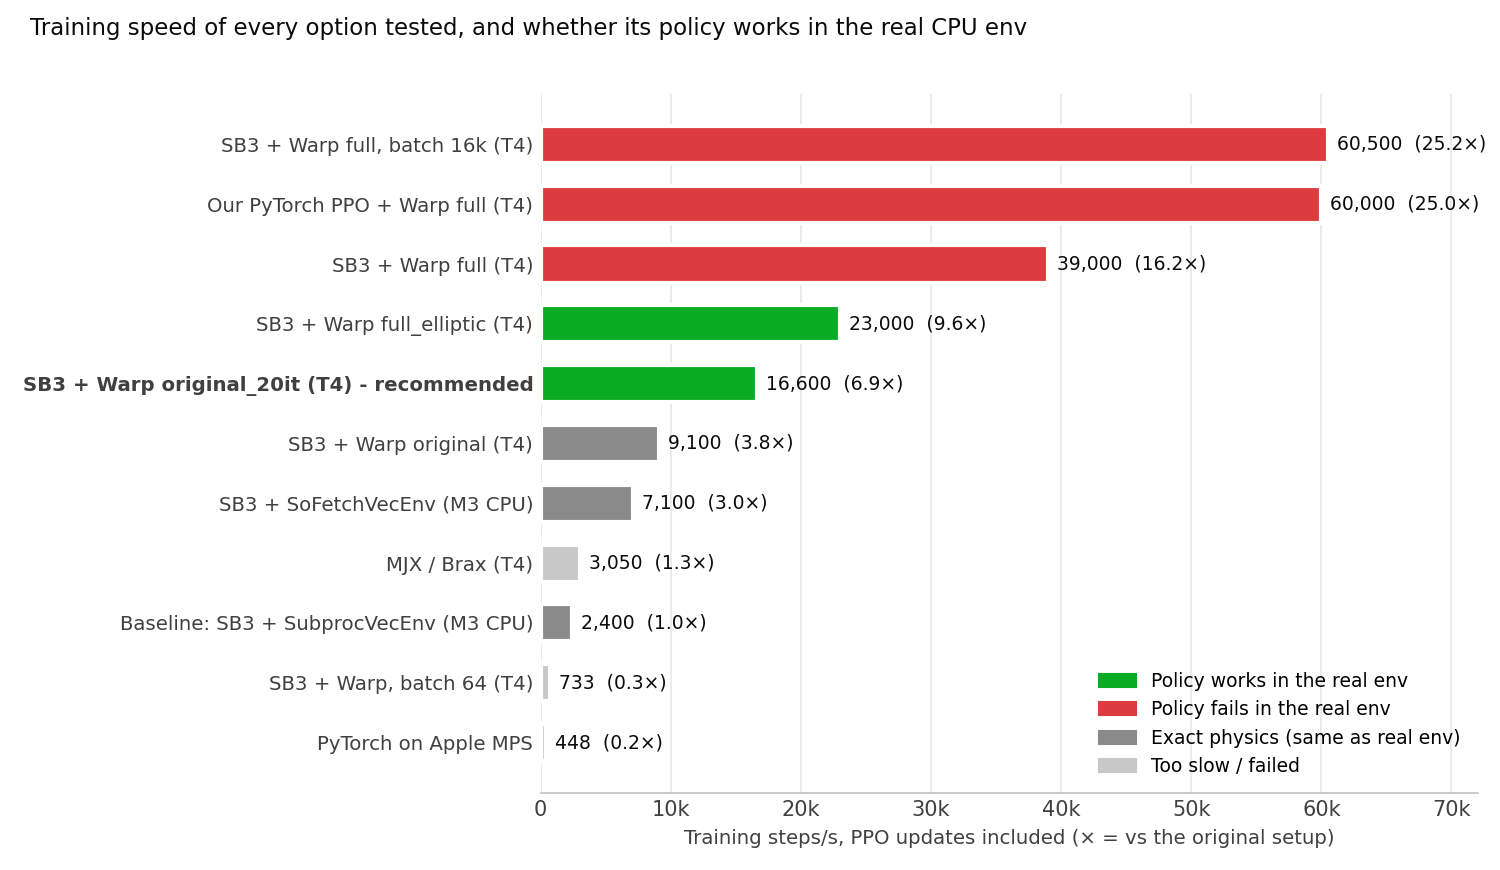
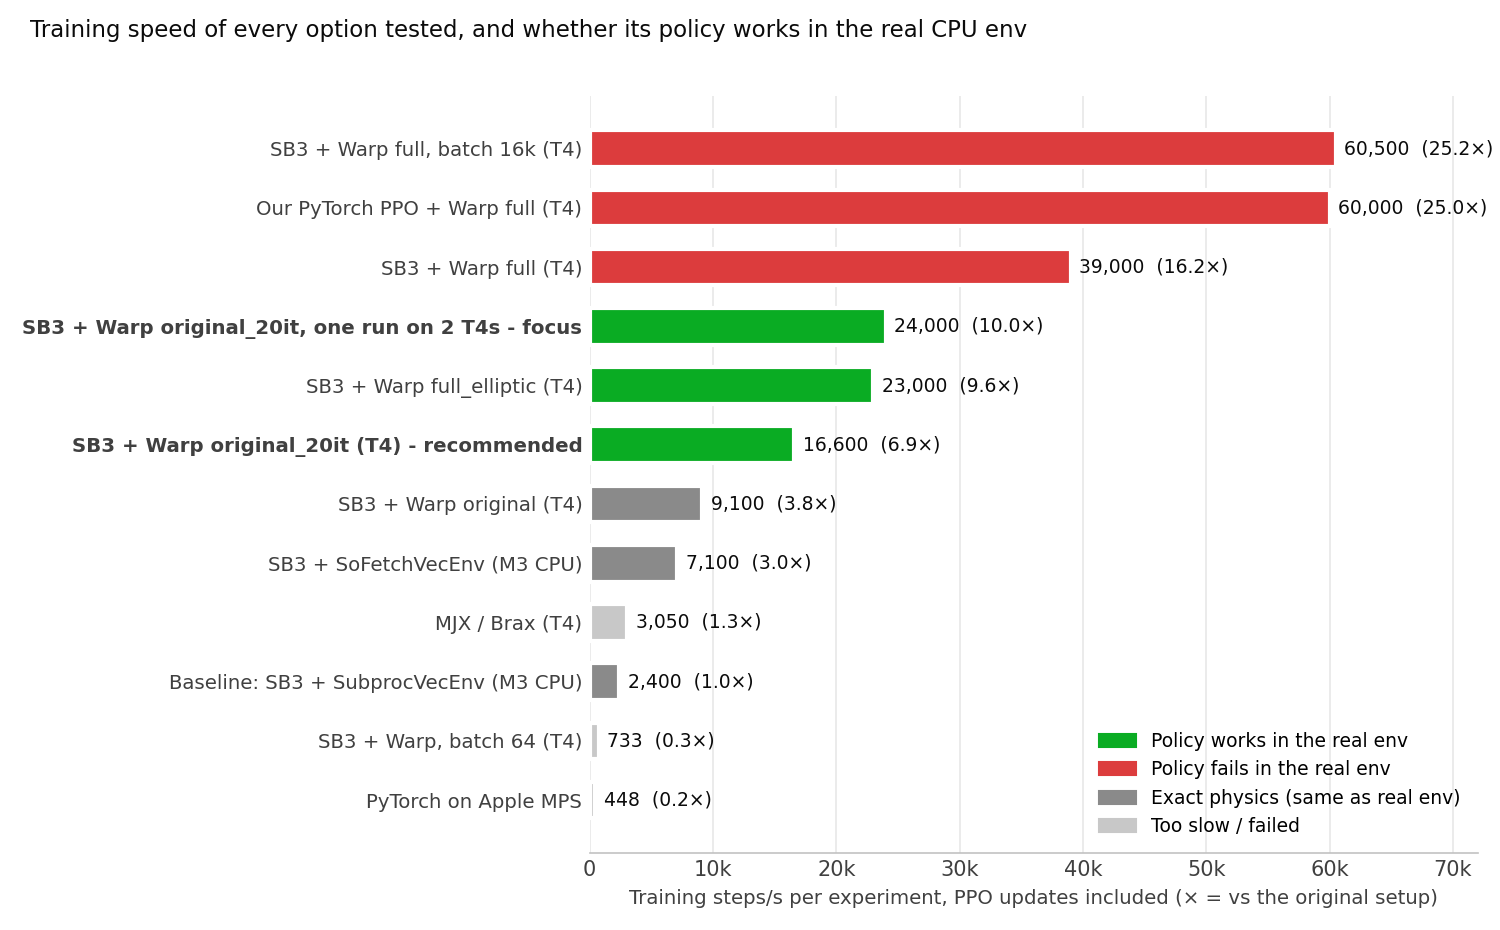
Variety or focus: notebook MODE, kaggle_job --focus, measured results in the docs
Focus splits one experiment over both T4s: 24k vs 16.6k steps/s with the same PPO settings, a 90% grasp rate in
17.1 vs 21.9 min. Split test compares env 0's info dict with a tolerance (GPU float maths isn't bit-repeatable).

diff --git a/tools/kaggle_job.py b/tools/kaggle_job.py
@@ -7,9 +7,10 @@ Wraps the official Kaggle CLI (`pip install kaggle`). See docs/KAGGLE.md for set
     python tools/kaggle_job.py logs so100-carl-rewards            # streams the live log (Ctrl-C to stop)
     python tools/kaggle_job.py download so100-carl-rewards        # -> kaggle_results/so100-carl-rewards/
     python tools/kaggle_job.py submit --name so100-carl-rewards --resume-from so100-carl-rewards ...   # continue training
+    python tools/kaggle_job.py submit --name so100-carl-focus --focus --exp carl-best:default    # one run on both T4s
 
 Each job is a private Kaggle notebook running kaggle_train_warp.ipynb (SB3 PPO on MuJoCo Warp) on GPU T4 x2: up to
-two experiments, one per GPU. The code is cloned from --branch on GitHub, so push your branch (e.g. with a new reward) first.
+two experiments, one per GPU ("variety"), or with --focus one experiment split across both GPUs (~1.45x faster). The code is cloned from --branch on GitHub, so push your branch (e.g. with a new reward) first.
 
 Credentials: ~/.kaggle/kaggle.json, or KAGGLE_USERNAME + KAGGLE_API_TOKEN (or KAGGLE_KEY) in the environment,
 or --env-file path/to/.env containing them. Keys are never printed.
@@ -65,12 +66,14 @@ def current_branch():
         return ""
 
 
-def config_cell(branch, hours, num_envs, experiments, resume):
+def config_cell(branch, hours, num_envs, experiments, resume, mode="variety"):
     exps = ",\n".join(f'    dict(run_name="{r}", reward="{w}", case="{c}")' for r, w, c in experiments)
     res = ", ".join(f'"{k}": "{v}"' for k, v in resume.items())
-    return (f'BRANCH = "{branch}"\nHOURS = {hours}                      # stop each run after this long (Kaggle ends sessions at 12 h)\n'
-            f'NUM_ENVS = {num_envs}                   # parallel envs per GPU\n'
-            f'EXPERIMENTS = [                   # one per GPU\n{exps},\n]\n'
+    return (f'BRANCH = "{branch}"\n'
+            f'MODE = "{mode}"                  # "variety": one experiment per T4 | "focus": one experiment on both T4s\n'
+            f'HOURS = {hours}                      # stop each run after this long (Kaggle ends sessions at 12 h)\n'
+            f'NUM_ENVS = {num_envs}                   # parallel envs per experiment\n'
+            f'EXPERIMENTS = [\n{exps},\n]\n'
             f'RESUME = {{{res}}}                      # run_name -> checkpoint (used if the file exists)')
 
 
@@ -85,8 +88,11 @@ def submit(a):
         if len(parts) not in (2, 3):
             sys.exit(f"--exp {e!r}: use RUN_NAME:REWARD or RUN_NAME:REWARD:CASE")
         experiments.append((parts[0], parts[1], parts[2] if len(parts) == 3 else a.case))
+    if a.focus and len(experiments) != 1:
+        sys.exit("--focus trains one experiment on both T4s: give exactly one --exp")
     if not 1 <= len(experiments) <= 2:
         sys.exit("give one or two --exp (one per T4)")
+    mode = "focus" if a.focus else "variety"
     resume, sources = {}, []
     if a.resume_from:
         src = a.resume_from if "/" in a.resume_from else f"{user}/{a.resume_from}"
@@ -96,7 +102,7 @@ def submit(a):
 
     nb = json.load(open(NOTEBOOK))
     idx = next(i for i, c in enumerate(nb["cells"]) if "EXPERIMENTS = [" in "".join(c["source"]))
-    nb["cells"][idx]["source"] = config_cell(a.branch, a.hours, a.num_envs, experiments, resume)
+    nb["cells"][idx]["source"] = config_cell(a.branch, a.hours, a.num_envs, experiments, resume, mode)
     out = a.dir or tempfile.mkdtemp(prefix="kaggle_job_")
     os.makedirs(out, exist_ok=True)
     json.dump(nb, open(os.path.join(out, f"{slug}.ipynb"), "w"), indent=1)
@@ -104,7 +110,8 @@ def submit(a):
             "kernel_type": "notebook", "is_private": True, "enable_gpu": True, "enable_internet": True,
             "dataset_sources": [], "competition_sources": [], "kernel_sources": sources, "model_sources": []}
     json.dump(meta, open(os.path.join(out, "kernel-metadata.json"), "w"), indent=2)
-    print(f"Job '{user}/{slug}': branch {a.branch}, {a.hours} h, {a.num_envs} envs/GPU")
+    print(f"Job '{user}/{slug}': branch {a.branch}, {a.hours} h, {a.num_envs} envs per experiment, "
+          + ("focus (one experiment on both T4s)" if a.focus else "variety (one experiment per T4)"))
     for r, w, c in experiments:
         print(f"  {r}: reward={w} case={c}" + (f" (resume from {resume[r]})" if r in resume else ""))
     if a.dry_run:
@@ -149,6 +156,7 @@ def main():
     s.add_argument("--branch", default=current_branch() or "main", help="GitHub branch to clone")
     s.add_argument("--hours", type=float, default=11.0)
     s.add_argument("--num-envs", type=int, default=8192)
+    s.add_argument("--focus", action="store_true", help="train one --exp on both T4s (~1.45x faster) instead of one per T4")
     s.add_argument("--resume-from", default=None, help="earlier job name whose results/models/<run>/final.zip to continue")
     s.add_argument("--accelerator", default="NvidiaTeslaT4")
     s.add_argument("--dir", default=None, help="where to write the job folder (default: a temp dir)")

diff --git a/make_kaggle_warp_notebook.py b/make_kaggle_warp_notebook.py
@@ -29,8 +29,12 @@ cells = [
 
 Physics runs in MuJoCo Warp on the GPU (8,192 envs at once) behind a normal SB3 VecEnv (`so_arm_warp/sb3_vec_env.py`),
 with the same PPO setup as `train_parallel.py` (VecMonitor + VecNormalize, MlpPolicy). A Kaggle GPU session has
-**two T4s** and each run uses one, so this notebook trains up to **two experiments side by side** (e.g. two reward
-functions). Code is cloned from the `{a.branch}` branch.
+**two T4s**, used one of two ways (`MODE` below):
+- **`"variety"`** (default): **two experiments side by side**, one per T4 (e.g. two reward functions), ~16.6k steps/s each.
+- **`"focus"`**: **one experiment on both T4s** (the first in `EXPERIMENTS`), ~24k steps/s, ~1.45× faster. Same PPO
+  settings, so results are comparable. Use it once something looks promising and you want that one run sooner.
+
+Code is cloned from the `{a.branch}` branch.
 
 **Kaggle settings:** Accelerator **GPU T4 x2**, Internet **On**, then **Save Version → Save & Run All** (12 h limit).
 Download `results.zip` from the version's Output tab.
@@ -48,9 +52,10 @@ the CPU env). Don't use `full`: it's faster but its policies fail in the CPU env
 """),
     code(f"""
 BRANCH = "{a.branch}"
+MODE = "variety"                  # "variety": one experiment per T4 | "focus": the first experiment, split over both T4s
 HOURS = 11.0                      # stop each run after this long (Kaggle ends sessions at 12 h)
-NUM_ENVS = 8192                   # parallel envs per GPU
-EXPERIMENTS = [                   # one per GPU; remove one to train a single run
+NUM_ENVS = 8192                   # parallel envs per experiment (in "focus" they're split across the T4s)
+EXPERIMENTS = [                   # "variety": one per GPU; "focus": only the first one is trained
     dict(run_name="carl-default-1", reward="default", case="original_20it"),
     dict(run_name="carl-fast-1", reward="default", case="full_elliptic"),
 ]
@@ -70,24 +75,27 @@ print("GPUs:", [torch.cuda.get_device_name(i) for i in range(n_gpu)])
 assert n_gpu >= 1, "No GPU: set the accelerator to GPU T4 x2"
 os.makedirs(OUT, exist_ok=True)
 """),
-    md("## Train (one process per GPU)"),
+    md("## Train (variety: one process per GPU; focus: one process on all GPUs)"),
     code("""
+assert MODE in ("variety", "focus"), MODE
+focus = MODE == "focus" and n_gpu > 1
+runs = EXPERIMENTS[:1] if MODE == "focus" else EXPERIMENTS[:n_gpu]
 procs = []
-for i, ex in enumerate(EXPERIMENTS[:n_gpu]):
+for i, ex in enumerate(runs):
     cmd = [sys.executable, "-m", "so_arm_warp.train_sb3", "--run-name", ex["run_name"], "--reward", ex["reward"],
            "--physics", ex.get("case", "original_20it"), "--num-envs", str(NUM_ENVS), "--hours", str(HOURS),
-           "--out-dir", OUT]
+           "--out-dir", OUT] + (["--gpus", str(n_gpu)] if focus else [])
     ck = RESUME.get(ex["run_name"])
     if ck and os.path.exists(ck):
         cmd += ["--resume", ck]
     elif ck:
         print("no checkpoint at", ck, "- starting", ex["run_name"], "from scratch")
     log = open(os.path.join(OUT, f"{ex['run_name']}.stdout"), "w")
-    env = {**os.environ, "CUDA_VISIBLE_DEVICES": str(i)}
+    env = dict(os.environ) if focus else {**os.environ, "CUDA_VISIBLE_DEVICES": str(i)}
     procs.append((ex["run_name"], subprocess.Popen(cmd, cwd=SRC, stdout=log, stderr=subprocess.STDOUT, env=env), log))
-    print("started", ex["run_name"], "on GPU", i)
-if len(EXPERIMENTS) > n_gpu:
-    print("Only", n_gpu, "GPU(s): skipped", [e["run_name"] for e in EXPERIMENTS[n_gpu:]])
+    print("started", ex["run_name"], f"on all {n_gpu} GPUs (focus)" if focus else f"on GPU {i}")
+if len(EXPERIMENTS) > len(runs):
+    print(f"{MODE}: not training", [e["run_name"] for e in EXPERIMENTS[len(runs):]])
 
 def last_line(name):
     try:

diff --git a/tests/test_warp_sb3.py b/tests/test_warp_sb3.py
@@ -95,7 +95,8 @@ def test_split_across_devices_matches_halves(steps=110):
             if "terminal_observation" in x:
                 ended += 1
                 np.testing.assert_allclose(x["terminal_observation"], y["terminal_observation"], atol=1e-6)
-        assert two.get_attr("info")[0] == halves[0].get_attr("info")[0]
+        # float reward terms: GPU float maths isn't bit-for-bit repeatable between runs, so compare with a tolerance
+        assert two.get_attr("info")[0] == pytest.approx(halves[0].get_attr("info")[0], abs=1e-5)
     assert ended == N    # every env finished one episode, in both halves
 
 

diff --git a/docs/TRAINING_OPTIONS.md b/docs/TRAINING_OPTIONS.md
@@ -26,6 +26,7 @@ with the jaws at least 4 cm open.
 | 1 | SB3 + Warp `full`, batch 16k, 5 epochs | T4 | 60,500 | 25× | 0.46 | Pyramidal friction, 4 ms steps | ❌ (same physics as #3) | Fast but its policies don't transfer |
 | 2 | Our PyTorch PPO + Warp `full` | T4 | ~60,000 | 25× | 0.46 | Pyramidal friction, 4 ms steps | ❌ never learned (0.02% on Warp) | Dropped |
 | 3 | SB3 + Warp `full`, batch 8k | T4 | 39,000 | 16× | 0.71 | Pyramidal friction, 4 ms steps | ❌ 0/20 / 6/20 | Dropped |
+| 3b | **SB3 + Warp `original_20it`, one experiment on both T4s ("focus")** | **2 × T4** | **24,000** | **10×** | **1.2** | Same as #5 | ✅ **20/20 / 20/20** | **When one idea deserves both GPUs** |
 | 4 | SB3 + Warp `full_elliptic` | T4 | 23,000 | 9.6× | 1.2 | Real friction model, 4 ms steps | ✅ 20/20 / 20/20 | For quick reward sweeps |
 | 5 | **SB3 + Warp `original_20it`** | **T4** | **16,600** | **6.9×** | **1.7** | **Exact model and solver, 20 iterations instead of 100** | ✅ **20/20 / 20/20** | **Recommended default** |
 | 6 | SB3 + Warp `original` | T4 | 9,100 | 3.8× | 3.1 | Exact (float32 on GPU) | Not trained (should transfer) | Too slow for what it adds |
@@ -47,6 +48,7 @@ with the jaws at least 4 cm open.
 | SB3 + Warp `full` | ~17 min | ~29M | 99.8% (40 min) | 0% | +1.8 |
 | SB3 + Warp `full_elliptic` | ~19 min | ~27M | 100% (50 min) | 0% | +0.7 to +1.0 |
 | **SB3 + Warp `original_20it`** | **~25 min** | **~25M** | **100% (50 min)** | 0% | +1.0 to +1.6 |
+| **Same, one experiment on both T4s (focus)** | **~22% sooner** (17.1 vs 21.9 min to a 90% grasp rate) | ~24M | 100% (40 min) | 0% | +5.4 (40 min) |
 | Our PyTorch PPO + Warp `full` | Never, in 40 min | 147M seen | 0.02% | 0% | −20.7 |
 | SB3 + `SoFetchVecEnv` (M3) | ~1 h *(estimate)* | ~25M | Not run | — | — |
 | SB3 + `SubprocVecEnv` (M3) | ~3 h *(estimate)* | ~25M | Not run | — | — |
@@ -67,6 +69,36 @@ drops to 0% deterministic on `full_elliptic` (`full` with `original`'s elliptic 
 So the gap comes from `full`'s **pyramidal friction cone**, not the timestep or the collision hulls. The policy
 learned to rely on how the pyramidal cone grips the cube. The SB3 adapter itself is consistent: Warp `original` and
 the CPU env agree.
+
+## Variety or focus: using both T4s
+
+A Kaggle session has two T4s. **Variety** (the default) trains a different experiment on each. **Focus** splits one
+experiment's envs over both (`train_sb3 --gpus 2`, notebook `MODE = "focus"`, `kaggle_job.py submit --focus`): each
+step runs the physics on both GPUs at once and joins the results into one batch, and SB3's PPO update runs on the first
+GPU. Measured on Kaggle's 2 × T4, `original_20it` physics:
+
+| Setup | Envs | Batch | Training steps/s | vs one T4 | Env only (no PPO) |
+|---|---|---|---|---|---|
+| One T4 (variety, per experiment) | 8,192 | 8,192 | 17,760 | 1.0× | 24,041 |
+| **Both T4s, same settings (focus default)** | **8,192 (4,096 each)** | **8,192** | **25,582** | **1.44×** | **41,336** |
+| Both T4s, twice the envs | 16,384 (8,192 each) | 16,384 | 31,648 | 1.78× | 47,555 |
+| Both T4s, twice the envs, smaller batch | 16,384 | 8,192 | 27,388 | 1.54× | |
+| Both T4s, twice the envs, 5 epochs | 16,384 | 16,384 | 36,382 | 2.05× | Not tested for learning |
+
+The PPO update isn't split, so the gain is less than 2×. **Learning (40-minute runs, `default` reward):**
+
+| Run | Training steps/s | Grasp ≥ 50% | Grasp ≥ 90% | Return at 40 min | CPU `SoFetchEnv` grasps (det. / sampled) |
+|---|---|---|---|---|---|
+| One T4 (earlier run) | 16,600 | 20.0 min (19.5M steps) | 21.9 min (21.2M) | +1.4 | 20/20 / 20/20 |
+| **Both T4s, same settings** | **24,000** | **16.4 min (23.3M)** | **17.1 min (24.4M)** | **+5.4** | **20/20 / 20/20** |
+| Both T4s, twice the envs | 28,200 | 21.7 min (37.0M) | 26.0 min (44.0M) | +4.1 | 20/20 / 20/20 |
+
+- **Same settings is the focus default.** It's the same PPO run, just 1.45× faster, so it reached the grasp ~22% sooner.
+- **Twice the envs is faster per step but slower to learn.** Bigger batches mean fewer policy updates per step
+  collected, so it needed ~44M steps instead of ~24M and reached the grasp later.
+- **Variety still gets more total training:** 2 × 16.6k = 33k steps/s across two experiments, against 24k for one.
+  Use focus when one result matters more than comparing two.
+- One run each, so expect some variation. The one-T4 run shared the machine with a second run on the other T4.
 
 ## Physics speed only (no learning)
 
@@ -119,6 +151,7 @@ Masses, joints, motors and the reward are identical in every option.
 |---|---|---|
 | `original_20it` | ~720M | 2 |
 | `full_elliptic` | ~1.0B | 2 |
+| `original_20it`, focus (both T4s on one experiment) | ~1.0B for that one | 1 |
 | CPU `SoFetchVecEnv` on a laptop, 12 h overnight | ~300M | 1 |
 
 ## Caveats
@@ -134,7 +167,8 @@ Masses, joints, motors and the reward are identical in every option.
 ## Recommendation
 
 1. **Main workflow: SB3 + Warp `original_20it` on Kaggle T4 ×2.** Each person runs two reward experiments per
-   notebook on their own free weekly GPU hours ([KAGGLE.md](KAGGLE.md)).
+   notebook on their own free weekly GPU hours ([KAGGLE.md](KAGGLE.md)). When one looks promising, switch to **focus**
+   to give it both T4s (1.45× faster).
 2. **Quick reward sweeps:** `full_elliptic` (1.4× faster). Check the winners with
    `python -m so_arm_warp.eval_sb3 <model>.zip`, or retrain them on `original_20it`.
 3. **No GPU quota left:** `train_parallel.py` with `SoFetchVecEnv` on a laptop. That's 3× the baseline, exact physics.

diff --git a/docs/KAGGLE.md b/docs/KAGGLE.md
@@ -3,7 +3,10 @@
 Kaggle gives every account free GPU time (two NVIDIA T4s per session, roughly 30 hours a week; check
 *Settings → Quotas*). We use it to run our recommended setup, **Stable-Baselines3 PPO on MuJoCo Warp** with `original_20it` physics
 (16,600 training steps/s per T4, and its policies work in the real CPU env; see [TRAINING_OPTIONS.md](TRAINING_OPTIONS.md)).
-One notebook session trains **up to two experiments at once**, one per GPU, for up to 12 hours.
+A notebook session has two T4s and runs for up to 12 hours. You choose how to use them:
+- **Variety** (default): **two experiments at once**, one per T4, at ~16,600 steps/s each. Best for comparing ideas.
+- **Focus:** **one experiment on both T4s**, at ~24,000 steps/s (1.45×), with the same PPO settings. Best when one idea
+  looks promising and you want its result sooner. In our test it reached a reliable grasp in 17 minutes instead of 22.
 
 There are two ways to start a job:
 
@@ -30,14 +33,17 @@ function) has to be **pushed to a branch** first.
 4. Edit the **settings cell** (the second cell):
    ```python
    BRANCH = "main"                   # the GitHub branch to run (yours, if you changed the reward)
+   MODE = "variety"                  # "variety": one experiment per T4 | "focus": the first experiment on both T4s
    HOURS = 11.0                      # each run stops after this long (sessions end at 12 h)
-   NUM_ENVS = 8192                   # parallel envs per GPU
-   EXPERIMENTS = [                   # one per GPU
+   NUM_ENVS = 8192                   # parallel envs per experiment (split across the T4s in "focus")
+   EXPERIMENTS = [                   # "variety": one per T4; "focus": only the first is trained
        dict(run_name="carl-default-1", reward="default", case="original_20it"),
        dict(run_name="carl-fast-1", reward="default", case="full_elliptic"),
    ]
    RESUME = {}
    ```
+   - **`MODE`:** `"variety"` trains both experiments, one per T4. `"focus"` trains only the first one, with its envs
+     split over both T4s (~1.45× faster).
    - **`reward`:** a name from `so_arm_warp/rewards.py`: `default` (exactly `SoFetchEnv`'s reward), `legacy` (the
      pre-PPO7 reward), or your own.
    - **`case`:** the physics option.
@@ -84,6 +90,9 @@ Use one of these. **Never commit credentials.**
 # Start a job: two experiments, one per T4 (physics original_20it unless given)
 python tools/kaggle_job.py submit --name so100-carl-rewards \
     --exp carl-default-1:default --exp carl-fast-1:default:full_elliptic
+
+# Focus: one experiment on both T4s (~1.45x faster), e.g. once carl-default-1 looks promising
+python tools/kaggle_job.py submit --name so100-carl-focus --focus --exp carl-default-2:default
 
 # Other options
 #   --exp RUN:REWARD:CASE     choose physics per run, e.g. carl-fast-1:default:full_elliptic

diff --git a/README.md b/README.md
@@ -10,6 +10,7 @@ For imitation learning on the SO-101 with LeRobot, see [imitation_learning/](imi
 | | Setup | Speed (training steps/s) | Policy works in the real env? | Docs |
 |---|---|---|---|---|
 | **Recommended** | **SB3 PPO on MuJoCo Warp, `original_20it` physics**, Kaggle's free T4 GPUs (`so_arm_warp.train_sb3`) | **16,600 per T4 (6.9× the original setup)**, two experiments per notebook | ✅ 20/20 grasps in `SoFetchEnv` | [docs/KAGGLE.md](docs/KAGGLE.md) |
+| One idea, sooner | Same, but **one experiment split over both T4s** (`MODE = "focus"` / `--focus` / `--gpus 2`) | 24,000 for that one run (10×); reached the grasp ~22% sooner | ✅ 20/20 grasps | [docs/KAGGLE.md](docs/KAGGLE.md) |
 | Quick sweeps | Same, `full_elliptic` physics | 23,000 per T4 (9.6×) | ✅ 20/20 (check winners) | [docs/KAGGLE.md](docs/KAGGLE.md) |
 | No GPU quota | SB3 on a laptop (`train_parallel.py`, `SoFetchVecEnv`) | 7,100 (3.0×) | ✅ exact physics | below |
 | Original setup | SB3 + `SubprocVecEnv` | 2,400 (1.0×) | ✅ | below |
@@ -35,6 +36,10 @@ about the reward rather than speed. Every measurement, including what failed (MJ
   Checkpoints use `train_parallel.py`'s layout: `warp_sb3_out/models/<run>/<steps>.zip` plus
   `warp_sb3_out/vec_norm_stats/<run>/<steps>.pkl`, with `log.csv` and tensorboard under `warp_sb3_out/logs/`.
   `--resume <...>/final.zip` continues a run.
+- **Variety or focus (Kaggle gives two T4s):** by default each T4 trains its own experiment, so you can compare two ideas.
+  Once one looks promising, `--gpus 2` (Kaggle: `MODE = "focus"`, or `kaggle_job.py submit --focus`) splits that one
+  experiment's envs over both T4s: 24k instead of 16.6k steps/s with the same PPO settings, and in our test it reached a
+  reliable grasp in 17 instead of 22 minutes. See [docs/TRAINING_OPTIONS.md](docs/TRAINING_OPTIONS.md#variety-or-focus-using-both-t4s).
 - **From `train_parallel.py`:** set `vec_env_backend = "warp"`. It uses the same PPO, callbacks and saving as before,
   with `SoFetchWarpVecEnv` (`so_arm_warp/sb3_vec_env.py`) in place of the CPU envs.
 - **Reward experiments:** add a class to [`so_arm_warp/rewards.py`](so_arm_warp/rewards.py) and pass `--reward <name>`.
